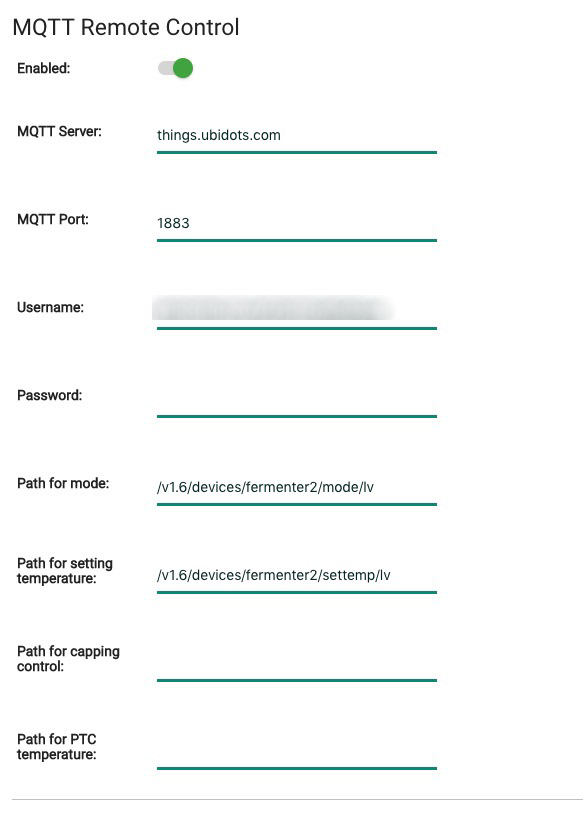
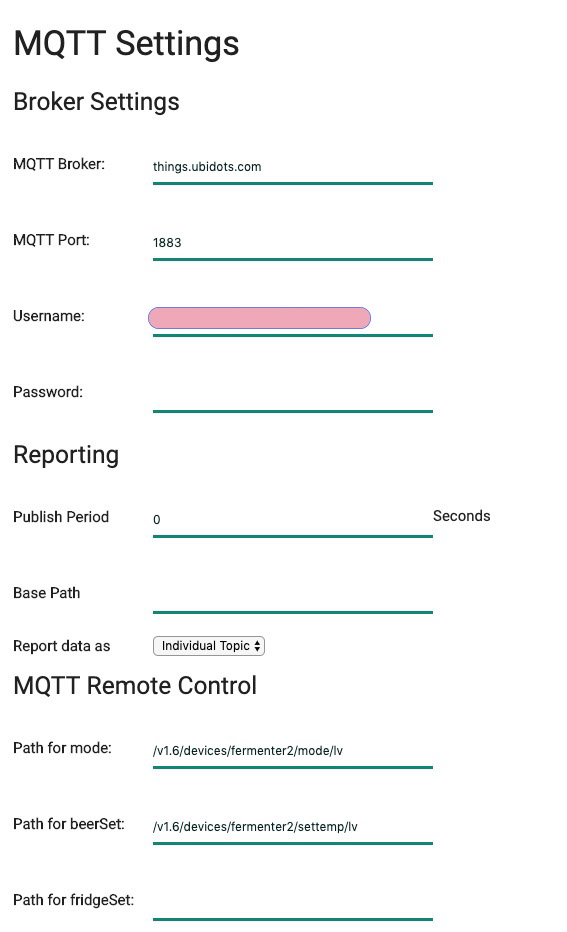
add MQTT for ubidots.com document

diff --git a/doc/MQTT.md b/doc/MQTT.md
@@ -1,18 +1,70 @@
+BPL supports MQTT reporting(publish) and remote control(subscribe). 
+
+MQTT reporting is independent from HTTP reporting/logging. You can enable both at the same time. However, it is not recommended because of resource consumption.
+
+![MQTT Remote Control Settings](image/mqtt.remote.jpg)
+
+## Broker/Server Settings
+The commmon seection of Reporting and Remote Control.
+Please note that BPL doesn't support SSL.
+## Reporting format
+The data can be sent in two ways, "**Individual Topic**" and "**Whole as JSON**". 
+When "**Individual Topic**" is selected, in most cases, every data item has its own topic, appended after "**Base Path**". For example, the topic of beerTemp will be "`/base/beerTemp`", given the "Base Path" is "`/base`".
+
+Ubidots.com accepts JSON format as MQTT data publish, which is the case that "**Whole as JSON**" should be used.
+
+The topic terminals or the JSON labels are listed in the following table.
+
+| Label            | Meaning       | Note       |
+| -------------- |:-------------:| :--------------------|
+| beerTemp | Beer Temperature reading | |
+| beerSet |  Beer set temperature| |
+| fridgeTemp | Fridge Temperature reading |
+| fridgeSet |  Fridge set Temperature| |
+| roomTemp |  Room temperature| |
+| gravity | Gravity in SG(eg. 1.052) | |
+| plato | Plato | |
+| auxTemp | Temperature reading from iSpindel | |
+| voltage | Voltage of iSpindel| |
+| tilt | Tilt value of iSpindel | |
+| pressure | Pressure reading in PSI | |
+| mode |  current running mode| Integer values for "**Whole as JSON**", character values for "**Individual Topic**" |
+
+## MQTT Remote Control
 MQTT Remote Control enables controlling BPL by a MQTT server. When enabled, BPL subscribes the specified path and changes the setting accordingly.
-Currently, four item can be controlled in this way:
-
-![MQTT Remote Control Settings](image/mqtt.remote.jpg?raw=true)
-
-### Mode
+Currently, five items can be controlled in this way.
+#### Mode
 The values can be 0,1,2,3 or o,f,b,p for 'Off', 'Fridge Constant', 'Beer Constant', and 'Beer Profile'.
 If the mode is changed to 'Beer Profile', the current profile will be used and the profile starting time will be set to current time. That is, you should edit the profile beforehand, and expect the profile to be execute starting from the time it is set.
 
-### Setting Temperature
-It is valid in 'Fridge Constant' and 'Beer Constant' mode only.
+### beerSet
+Beer setting temperature. It is used it the mode is set to "Beer Constant".
+
+### fridgeSet
+Fridge setting temperature. It is used it the mode is set to "Fridge Constant".
 
 ### Capping/spunding, if enabled.
 ### PTC temperature, if enabled
 To set PTC target temperature, the 'triggering temperature' will set to 3 degree higher.
+
+## Initial values and Echo effect
+While **mode**, **fridgeSet**,  and **beerSet** are reporting items, they are also "subscribed" topics if enabled. They can have exact the same topics as reporting topics, or not.
+If the "Remote Control" topics are different from "Reporting" topics, the initial values are not clear, or undefined. For example, if "/basepath/setmode" is the remote control path and "/basepath/mode" is reporting path. The initial value of "/basepath/setmode" is undefined. It won't affect normal operation, but some people don't like it.
+If the remote control topic path is set to exact the same as reporting topic, echo effect happens when changing the values, depending on the implementation of MQTT Brokers. It is demostrated as following table.
+
+| BPL            | MQTT Broker       | User       |
+| -------------- |:-------------:| :--------------------|
+| BPL publishes mode, say, OFF. | | |
+|  | MQTT Broker publishes mode to value OFF | |
+| BPL gets notification that mode is changed to OFF. | | |
+| | | |
+| | | The user sets mode to "beerConst". |
+| | Broker notifiy value changes |  |
+| BPL updates mode to beerConst. | | |
+| BPL reports mode as beerConst| | |
+| | Broker notifiy value changes |  |
+| BPL gets notification that mode is changed to beerConst. | | |
+
 
 ## Some Notes
 Connecting to MQTT server takes up a TCP connection and some resource. The program might stick to the setting on MQTT server. Therefore, enable it only when you need it.
@@ -20,4 +72,4 @@ Connecting to MQTT server takes up a TCP connection and some resource. The progr
 There is latency of network and update of data. Therefore, expect some delay after changing the setting.
 
 ***
-[Index](index.md)
+[Index](index.md) [Settings for ubidots.com](MQTT.ubidots.md)

diff --git a/doc/GenericHttpLogging.md b/doc/GenericHttpLogging.md
@@ -15,6 +15,10 @@ The `format` field in log setup page is like the format in `printf` but uses the
 | %a         | auxiliary temperature   |
 | %v         | external device voltage   |
 | %u         | UNIX timestamp of last gravity update   |
+| %U         | 'C' for Celsius or 'F' for Fahrenheit  |
+| %m         | Mode in integer: 0:Off ,1: FridgeConst, 2:BeerConst, 3:BeerProfile  |
+| %M         | Mode in character: o, b, f, p |
+| %P         | Pressure reading in PSI  |
 
 For example, let beer setting be `20.0` and beer temperature be `18.3`, if the `format` is `api_key=TheRealApiKeyHere&field1=%B&field2=%b`,
 the data will be `api_key=TheRealApiKeyHere&field1=20.0&field2=18.3`.
@@ -24,7 +28,7 @@ If the method is `GET`, the data will append to the url with additional `?`, so 
 (GET is usually not recommended.)
 The `Data Type` field is used as "Content-Type" in HTTP protocol. When it is left blank, the default value of `application/x-www-form-urlencoded` will be used. The default type is good for content like `A=V1&B=V2`.
 
-Due to the memory limitation, HTTPS is not supported. Therefore, if you want to send data to a service that supports only HTTPS, an additional proxy is needed.
+Due to the memory limitation, **HTTPS is not supported.** Therefore, if you want to send data to a service that supports only HTTPS, an additional proxy is needed.
 
 You can use Generic HTTP format for thingspeak.com and Brewfather to get exact the same result, but you should use ubidots.com specific settings to setup ubidots.com. It is because that ubidots.com will reject all values if one of them are "null"
 

diff --git a/doc/HardwareGeneral.md b/doc/HardwareGeneral.md
@@ -43,18 +43,18 @@ The pin allocation is defined in `Config.h`:
 
 `#define DownButtonPin NODEMCU_PIN_D4`
 
-You can change the pin allocation to your configuration. Just don't use D8, which is pulled low to enable normal booting. You might need to use pull-up register if you choose D0, which doesn't support internal pull-up.
+You can change the pin allocation to your configuration. **Just don't use D8**, which is pulled low to enable normal booting. You might need to use pull-up register if you choose D0, which doesn't support internal pull-up.
 
-### Rotary Encoder
+### Rotary Encoder _Not Recommended_
 Due to the special usage at bootup of GPIO0,2,15(D3,D4,D8), they can't be used as inputs for rotary encoder. One of the solution is buy an IO Expander. 
 Currently, PCF8574 is supported if you really need the rotary encoder. You will have to change the compile options in Config.h to enable this feature.
 The Rotary Encoder doesn't work with OLED LCD.
 
-### Wake-up button
+### Wake-up button _deprecated_
 No longer available after v2.7. Two-button configuration will work on the hardware setup for Wake-up button and pressing the button will "wake up" BPL also.
 
 
-### 2 Buttons via PCF8574
+### 2 Buttons via PCF8574 _Not Recommended_
 Use this option to share the same hardware with BrewManiacEx. UP is connect to P1 while DOWN is connect to P0. (Enter is at P2, and Start is at P3. BrewPiLess uses only two buttons.)
 
 ***

diff --git a/doc/MQTT.ubidots.md b/doc/MQTT.ubidots.md
@@ -1,0 +1,42 @@
+# MQTT Settings of ubidots.com
+### Step 1. create variables
+Go to the device page, add variables,say "mode" and "settemp".
+
+![](image/ubidots.variable.jpg)
+
+Make sure the "api label" is correctly set.
+
+### Step 2. create controls
+Go to dashboard. Click "+"(Add widget) to add a **slider** control:
+![New Control](image/ubidots.add.control.jpg)
+
+Choose the just added variable, mode:
+Set the range 0-3, while 0 is off, 1 is "Fridge Constant", 2 is "Beer Constant", and 3 is "Beer Profile".
+
+![New Widget](image/ubidots.widget.creation.jpg)
+
+Do the same to the "settemp" variable with correct ranges.
+
+Now you will have it.
+
+![](image/ubidots.control.widget.jpg)
+
+
+## Settings for ubidots.com
+Get the full information from [Ubidots Docs](https://ubidots.com/docs/hw/#mqtt).
+
+
+For free/educational users, use
+* MQTT Server: things.ubidots.com
+* MQTT Port : 1883
+* User Name: [ubidots token]
+* Password: (left blank)
+
+The path is in format of '/v1.6/devices/{DEVICE_LABEL}/{LABEL_VARIABLE}/lv'.
+Let the device label be 'fermenter2' and mode and setting temperature variables be 'mode', and 'settemp'.
+* Mode path: /v1.6/devices/fermenter2/mode/lv
+* beerSet or fridgeSet path: /v1.6/devices/fermenter2/settemp/lv
+
+## Usage
+
+Slide the **mode slider** to change mode and **settemp slider** to change temperature. 

diff --git a/doc/JsonCommand.md b/doc/JsonCommand.md
@@ -8,7 +8,7 @@ You can set multiple parameters in one command. The command after `j` is in form
 
 | Key            | Meaning       | Note       |
 | -------------- |:-------------:| :--------------------|
-| tempFormat         | Temperature format          | F for Fahrenheit, C for Celius. The algorithm always uses fixed point Celcius format internally, but it converts all settings that go in or out to the right format.	|
+| tempFormat         | Temperature format          | F for Fahrenheit, C for Celsius. The algorithm always uses fixed point Celcius format internally, but it converts all settings that go in or out to the right format.	|
 | tempSetMin        | Minimum temperature setting     | The fridge and beer temperatures cannot go below this value. |
 | tempSetMax        | Maximum temperature setting    | The fridge and beer temperatures cannot go above this value.  |
 | Kp                | Kp parameters of PID           | The beer temperature error is multiplied by Kp to give the proportional part of the PID value.  | 

diff --git a/doc/HardwareSONOFF.md b/doc/HardwareSONOFF.md
@@ -1,10 +1,11 @@
 BrewPiLess can run on [SONOFF Basic](https://www.itead.cc/wiki/Sonoff) and [SONOFF TH10/16](https://www.itead.cc/wiki/Sonoff_TH_10/16). You will need to solder the header pins for the first flashing and install temperature sensors. However, because of the small 1M byte flash memory, you will either sacrifice 
 * OTA web update for log storage, or
 * 500k log storage for OTA update
-* LCD not available.
+* LCD is not available.
 
-SONOFF dual is not supported, because the Relays are controlled by Serial instead of GPIO.
+SONOFF dual is not supported, because the Relays are controlled by Serial instead of GPIO.Instead, SONOFF Dual **R2** should work by specify correct PINs.
 
+Please note that some older SONOFFs, maybe before 2018, use ESP8266 while new ones use ESP8285. Right configuration must be used.
 
 ***
 [Index](index.md)

diff --git a/README.md b/README.md
@@ -48,10 +48,11 @@ You will need to run the hardware setup procedure after upgrading to v2.4 from p
 ## Version History
  * v3.6
     * update framework to 2.2.0
-    * update OLED library to 4.0 (Not verified)
+    * update OLED library to 4.0 (Not verified by me, but SOMEONE@HBT did report working)
     * update to ArduinoJson V6
     * add revised LCD page. at /lcd
     * SOFF OTA configuraton not longer available for space limit
+    * Using interrupt for more responsive button operation.
 
  * v3.5.1 
     * fixed iSpindel temperature unit issue

diff --git a/doc/index.md b/doc/index.md
@@ -25,7 +25,7 @@
 * [Use with Glycol](glycol.md)
 * [Auto Capping(Spunding)](AutoSpunding.md)
 * [MQTT Remote Control](MQTT.md)
-  * [ubidots.com](ubidots.md)
+  * [ubidots.com](MQTT.ubidots.md)
 * [Pressure Monitor and Control](PressureMonitor.md)
 * [Other URLs](OtherUrl.md)
   * Clear WiFi setting

diff --git a/doc/CloudLogging.md b/doc/CloudLogging.md
@@ -2,6 +2,7 @@ Remote logging, or cloud logging, is used to push data to a remote server. Most 
 * [ubidots.com](ubidots.md)
 * [thingspeak.com](thingspeak.md)
 * [Brewfahter](brewfather.md)
+* [Brewer's Friend](brewersfriend.md)
 
 ***
 [Index](index.md)
